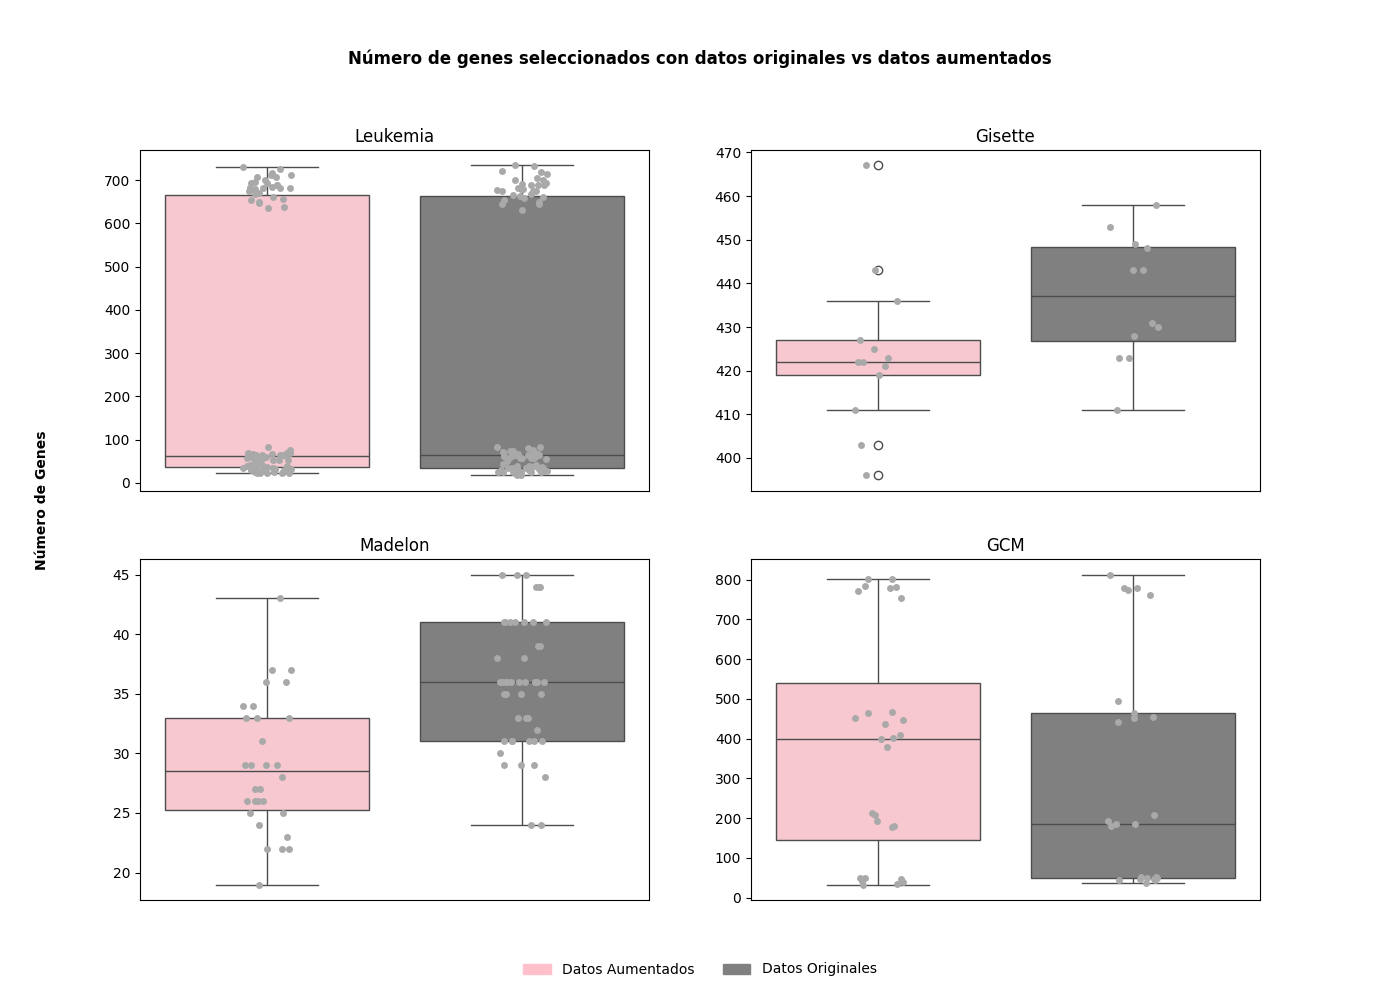
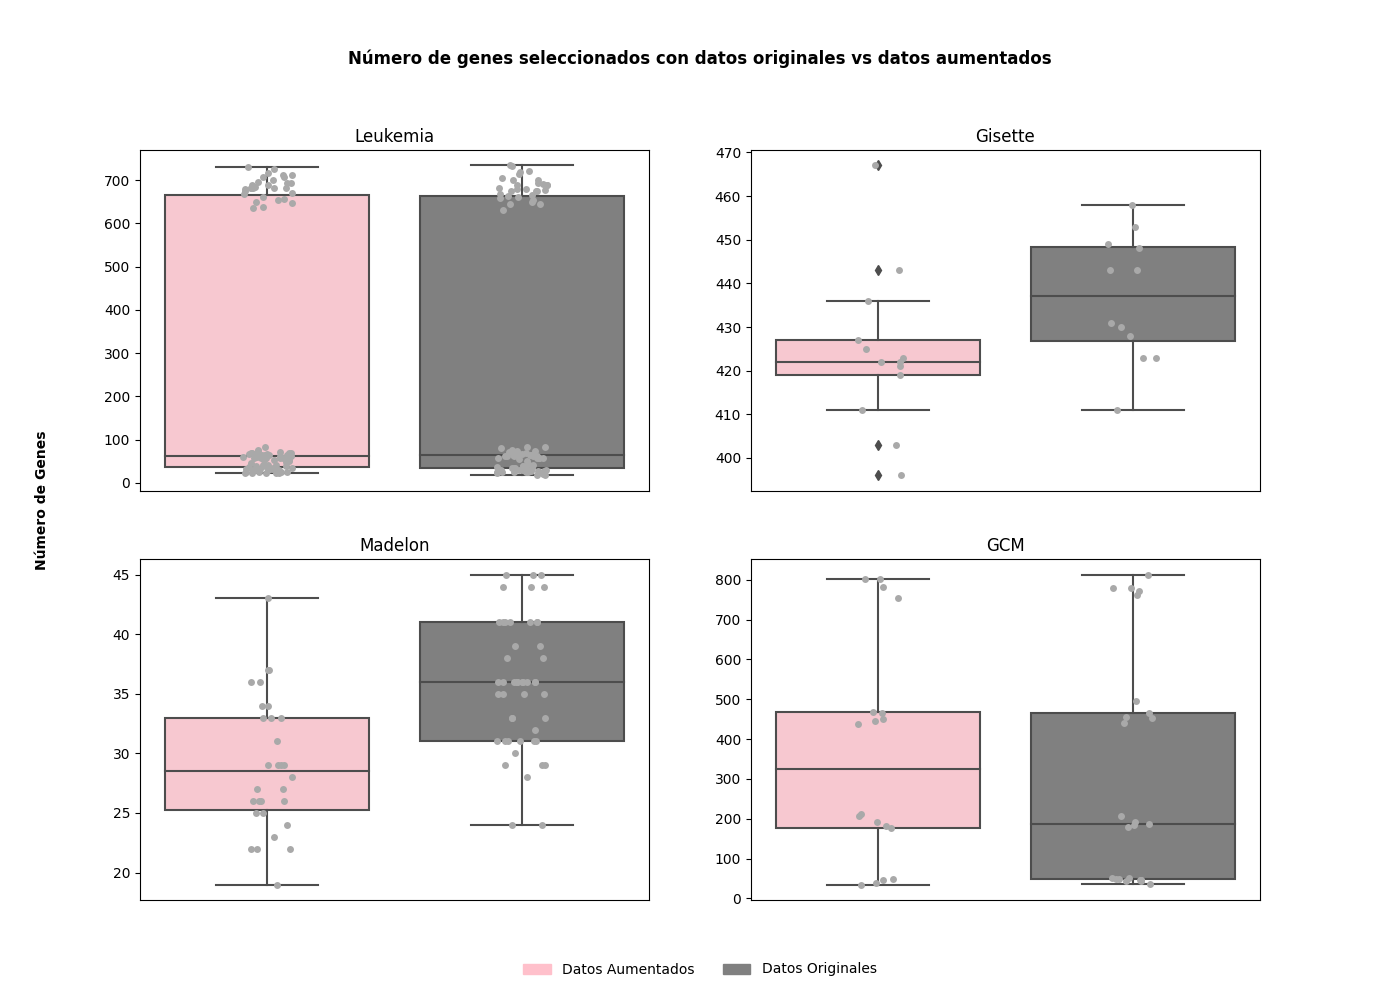
update

diff --git a/utnthesis/graficar_gcm_parte1.py b/utnthesis/graficar_gcm_parte1.py
@@ -1,0 +1,61 @@
+import pandas as pd
+import matplotlib.pyplot as plt
+import seaborn as sns
+
+# Read data
+data = pd.read_csv('experiments_results.csv')
+# Helper function to categorize experiments
+def categorize_experiments(df, original_data_list, experiment_prefix, group_length):
+    df = df[df['experiment_name'].str.contains(experiment_prefix)].copy()
+    df.loc[:, 'experiment_group'] = df['experiment_name'].apply(lambda x: x[:group_length])
+    df.loc[:, 'group'] = df['experiment_group'].apply(lambda x: 'original' if x in original_data_list else 'aumentados')
+    return df
+
+
+# GCM
+gcm_original_data = ['gcm_base_0037',
+                     'gcm_base_0038',
+                     'gcm_base_0039',
+                     'gcm_base_0040']
+gcm = categorize_experiments(data, gcm_original_data, 'gcm', 13)
+gcm = gcm[gcm['experiment_group'].str.contains('0031|0033|0035|0036|0037|0038|0040')].copy()
+
+# Configuración de la paleta de colores
+custom_palette = {'original': 'gray', 'aumentados': 'pink'}
+
+# Función para generar gráficos combinados
+def plot_combined(dataset, dataset_name):
+    fig, axes = plt.subplots(1, 2, figsize=(14, 6))
+
+    # Panel izquierdo: pob_accuracy_avg
+    sns.boxplot(ax=axes[0], x='group', y='pob_accuracy_avg', data=dataset, palette=custom_palette)
+    sns.stripplot(ax=axes[0], x='group', y='pob_accuracy_avg', data=dataset, color='darkgrey', dodge=True)
+    axes[0].set_title('Precisión obtenida en clasificación')
+    axes[0].set_xlabel('')
+    axes[0].set_ylabel('Precisión')
+
+    # Panel derecho: pob_ngenes_avg
+    sns.boxplot(ax=axes[1], x='group', y='pob_ngenes_avg', data=dataset, palette=custom_palette)
+    sns.stripplot(ax=axes[1], x='group', y='pob_ngenes_avg', data=dataset, color='darkgrey', dodge=True)
+    axes[1].set_title('Características seleccionadas por el AG')
+    axes[1].set_xlabel('')
+    axes[1].set_ylabel('Número de Genes')
+
+    # Ajustar el layout y guardar la figura
+    plt.suptitle(f'Resultados para {dataset_name}', fontweight='bold')
+    plt.tight_layout(rect=[0, 0, 1, 0.96])
+    plt.savefig(f'boxplot_{dataset_name.lower()}_combined_part1.png')    
+    plt.show()
+
+# Generar gráficos combinados para cada dataset
+plot_combined(gcm, 'GCM')
+
+
+print(f"Tamaño aumentacion: {gcm['DAT_SIZE'].value_counts()}")
+# get mean value of pob_accuracy_avg and pob_ngenes_avg for each group
+
+mean_accuracy = gcm.groupby('group')['pob_accuracy_avg'].mean()
+mean_ngenes = gcm.groupby('group')['pob_ngenes_avg'].mean()
+print(f"Mean accuracy: {mean_accuracy}")
+print(f"Mean ngenes: {mean_ngenes}")
+

diff --git a/utnthesis/consolidado_experimentos_para_reporte.py b/utnthesis/consolidado_experimentos_para_reporte.py
@@ -34,7 +34,7 @@ madelon.loc[:, 'group'] = madelon['experiment_group'].apply(lambda x: 'original'
 gcm_original_data = ['gcm_base_0065', 'gcm_base_0063', 'gcm_base_0067', 'gcm_base_0070']
 gcm = categorize_experiments(data, gcm_original_data, 'gcm', 13)
 # Filter out some experiments containing 'gcm_base_006' or 'gcm_base_007'
-gcm = gcm[gcm['experiment_group'].str.contains('gcm_base_006|gcm_base_007')].copy()
+gcm = gcm[gcm['experiment_group'].str.contains('0061|0066|0064|0069|0065|0063|0067|0070')].copy()
 
 # Combine all filtered datasets into one
 combined_data = pd.concat([leukemia, gisette, madelon, gcm])

diff --git a/draft_notes_code/cap_4_experiments.md b/draft_notes_code/cap_4_experiments.md
@@ -107,22 +107,45 @@ Finalmente, podemos destacar también que de los algoritmos clásicos evaluados 
 
 ## Experimento 4: GCM
 
-### Metodología 
+### Metodología parte 1
 
-El conjunto de datos *GCM* representa un desafío aún mayor que los anteriores no solo debido a la alta dimensionalidad y bajo número de muestras, sino también por las múltiples clases y el desbalance entre ellas.  El dataset consiste en perfiles de expresión de 190 muestras de tumores que representan 14 clases de cáncer humano, con 16063 atributos (biomarcadores).
+El conjunto de datos *GCM* representa un desafío aún mayor que los anteriores no solo debido a la alta dimensionalidad y bajo número de muestras, sino también por las múltiples clases y el desbalance entre ellas.  El dataset consiste en 16063 atributos (biomarcadores), sobre 190 muestras de tumores que refieren a 14 clases de cáncer humano.
 
-El proceso de experimentación en GCM estuvo dividido en dos partes. En la primera parte, se realizaron experimentos exploratorios con diferentes configuraciones del AG y el AVC para evaluar la efectividad de la aumentación de datos. En la segunda parte, se realizaron ajustes en la metodología, el modelo de AVC y el diseño de la integración AVC-AG.
+El proceso de experimentación en GCM estuvo dividido en dos partes. En la primera parte, se realizaron experimentos exploratorios con diferentes configuraciones del AVC y el AG. El objetivo de esta etapa fue establecer una línea base para evaluar la efectividad de la aumentación de datos. En la segunda parte, se realizaron ajustes en la metodología, el modelo de AVC y el diseño de la integración AVC-AG. Esta vez, el objetivo era mejorar la calidad de los datos sintéticos y la eficiencia de la selección de características.
 
-Al enfrentarnos a GCM asumíamos que la generación sintética de muestras y ulterior proceso de selección de características plantearía un desafío significativo al AG debido a la complejidad del dataset. La calidad de reconstrucción lograda en los datos  sintéticos generados por el AVC presentado en el Capítulo 2, aunque capaz de preservar la estructura subyacente del conjuntos de datos de GCM, no permitía suponer una mejora significativa en la precisión de la clasificación con un AG. Por ello, se esperaba que los experimentos con datos aumentados presentaran resultados mixtos, con posibles mejoras en la estabilidad de la selección de características, pero sin mejoras significativa en la precisión. 
+Al enfrentarnos a GCM asumíamos que la generación sintética de muestras y ulterior proceso de selección de características plantearía un desafío significativo al AG debido a la complejidad del dataset. La calidad de reconstrucción lograda en los datos  sintéticos generados por el AVC presentado en el Capítulo 2, aunque capaz de preservar la estructura subyacente del conjuntos de datos de GCM, no permitía suponer una mejora significativa en la precisión de la clasificación con un AG. Por ello, esperabamos que los experimentos con datos aumentados presentaran resultados mixtos, con posibles mejoras en la estabilidad de la selección de características, pero sin mejoras significativa en la precisión. 
 
-Respescto de los recursos de hardware utilizados, dado que la aumentación de datos requeriría un poder de cómputo proporcional a la cantidad de muestras sintéticas generadas, se optó por utilizar un entorno en la nube para ejecutar los experimentos de manera eficiente y paralela. Para este propósito, se trabajó con una máquina virtual en Google Cloud Platform con 8 vCPUs y 30 GB de RAM.
+Respecto de los recursos de hardware utilizados, dado que la aumentación de datos requeriría un poder de cómputo proporcional a al tamaño del dataset por la cantidad de muestras sintéticas generadas, se optó por utilizar un entorno en la nube para ejecutar los experimentos de manera eficiente. Para este propósito, se trabajó con una máquina virtual en Google Cloud Platform con 8 vCPUs y 30 GB de RAM.
 
-La configuración del AG fue la siguiente:
+La configuración inicial del AG fue la siguiente:
 
 - **Mutación:** PROB_MUT = 1/IND_SIZE (0.00006)
 - **Probabilidad de cruce:** PX = 0.75
-- **Cromosoma activo:** p = 0.1,0.01,0.005,0.003,0.001 
+- **Cromosoma activo:** p = 0.1
 - **Número máximo de generaciones:** GMAX = 20
+
+En la primera etapa se experimentó con un cromosoma activo que representaba el 10% de las características totales, al rededor de 1600 genes por cromosoma, tanto para el grupo de experimentos con datos originales como al grupo de experimentos con datos aumentados. En el caso de estos últimos, el dataset mixto de datos incluía 1400 muestras sintéticas (100 instancias sintéticas por clase) y la partición original de entrenamiento. El proceso evolutivo se configuró para correr por 20 generaciones. 
+
+### Resultados parte 1
+
+Los resultados, como anticipabamos, nos fueron favorables. La precisión media fue ligeramente superior en los experimentos con datos originales (0.538) en comparación con los datos aumentados (0.512), pero la diferencia no fue estadísticamente significativa. La estabilidad de la selección de características fue similar en ambos grupos, con una dispersión similar en la cantidad de características seleccionadas, como se puede observar en el siguiente gráfico.
+
+![GCM Resultados exploratorios](boxplot_gcm_combined_part1.png)
+
+Se descartó un grupo de experimentos que partían de un cromosoma del 30% de las características totales, dado que los resultados mostraron una acentuada degradación en la precisión (en el rango de 0.2 y 0.35).
+
+- Falla VAE. 
+- Verificación de un MLP
+- Probar VAE pero con subselectores de características. Este fue el puente hacia la segunda parte de los experimentos.
+
+### Metodología Parte 2
+
+GA entrenado con dataset mixto.
+
+Para abordar las limitaciones observadas, se realizaron ajustes en la metodología, como la integración de pesos de clase en la función de pérdida personalizada del AV y la inclusión de un muestreador aleatorio ponderado en el cargador de datos. Estos ajustes, junto con una subselección inicial de características, mejoraron significativamente los resultados en una serie posterior de experimentos, alcanzando una precisión balanceada superior al 0.65 en algunos casos.
+
+
+Finalmente, en lo estrictamente metodológico, los experimentos con *GCM* fue similares a los anteriores, con la diferencia de que se adoptó un doble proceso de selección de características. Así, el proceso consistió en encadenar una secuencia de AG, AVC y finalmente un AG. El primer AG se encargó de seleccionar un subconjunto inicial de características, que fue utilizado para entrenar un AVC. El AVC generó muestras sintéticas que se integraron con los datos originales para entrenar un segundo AG, que se encargó de seleccionar un subconjunto final de características.
 
 La cantidad de muestras sintéticas generadas fue ajustada a lo largo de los experimentos, conforme se exploraban opciones de mejora. Ello dio lugar a la siguiente tabla de experimentos por cantidad de muestras analizadas, donde la primera fila representa la cantidad de muestras originales:
 
@@ -136,18 +159,9 @@ La cantidad de muestras sintéticas generadas fue ajustada a lo largo de los exp
 | 254               | 2                     |
 | 6106              | 1                     |
 
-La primera etapa de experimentos se realizó con un cromosoma activo que representaba el 10% de las características totales, limitado a un máximo de 20 generaciones. El AG se corrió con datos originales y con un conjunto de datos aumentado que incluía 254 muestras sintéticas. Se emplearon distintas configuraciones del cromosoma activo, buscando identificar las condiciones óptimas para la selección de características.
-
-### Resultados Parte 1
-
-El primer conjunto de experimentos con el conjunto de datos gcm mostró resultados mixtos. La precisión media fue ligeramente superior en los experimentos con datos originales en comparación con los datos aumentados.
-### Metodología Parte 2
 
 
-Para abordar las limitaciones observadas, se realizaron ajustes en la metodología, como la integración de pesos de clase en la función de pérdida personalizada del AV y la inclusión de un muestreador aleatorio ponderado en el cargador de datos. Estos ajustes, junto con una subselección inicial de características, mejoraron significativamente los resultados en una serie posterior de experimentos, alcanzando una precisión balanceada superior al 0.65 en algunos casos.
 
-
-Finalmente, en lo estrictamente metodológico, los experimentos con *GCM* fue similares a los anteriores, con la diferencia de que se adoptó un doble proceso de selección de características. Así, el proceso consistió en encadenar una secuencia de AG, AVC y finalmente un AG. El primer AG se encargó de seleccionar un subconjunto inicial de características, que fue utilizado para entrenar un AVC. El AVC generó muestras sintéticas que se integraron con los datos originales para entrenar un segundo AG, que se encargó de seleccionar un subconjunto final de características.
 
 
 
